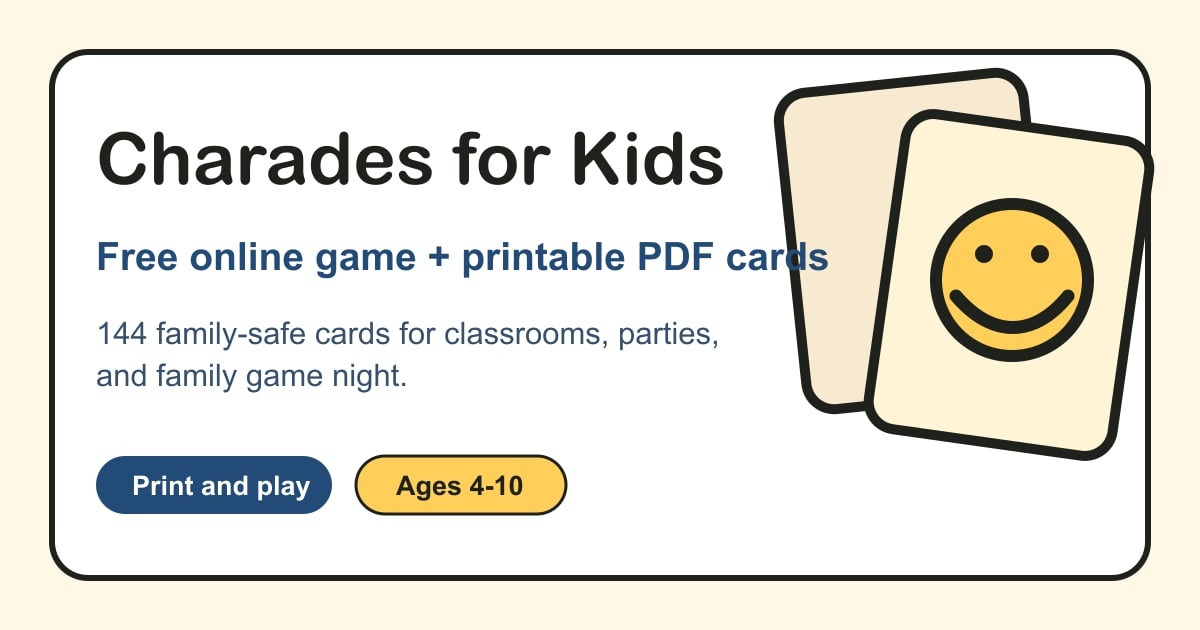
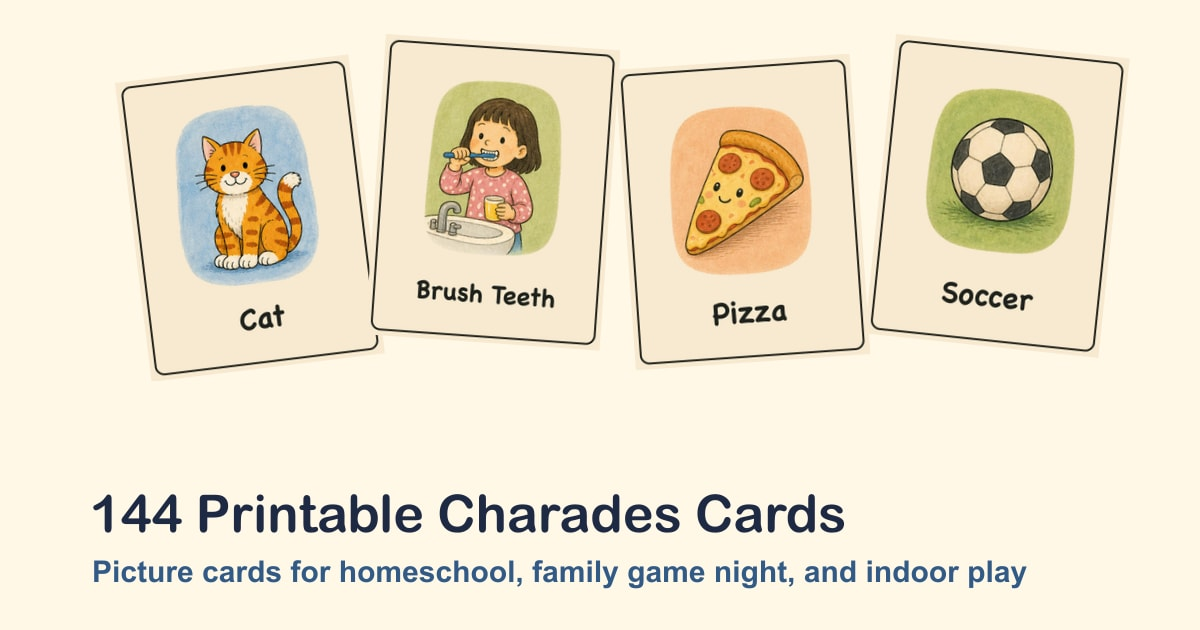
Improve generator SEO and sharing image

diff --git a/site/assets/game.js b/site/assets/game.js
@@ -3,6 +3,7 @@
   const els = {
     deckSelect: document.getElementById("deck-select"),
     ageSelect: document.getElementById("age-select"),
+    generateCard: document.getElementById("generate-card"),
     startRound: document.getElementById("start-round"),
     resetGame: document.getElementById("reset-game"),
     skipCard: document.getElementById("skip-card"),
@@ -27,7 +28,8 @@
     seconds: 60,
     remaining: 60,
     timerId: null,
-    running: false
+    running: false,
+    mode: "ready"
   };
 
   function getTimerSeconds() {
@@ -62,6 +64,10 @@
   function updateScore() {
     els.scoreCorrect.textContent = String(state.correct);
     els.scoreSkipped.textContent = String(state.skipped);
+    if (state.mode === "single") {
+      els.cardsLeft.textContent = String(getFilteredCards().length);
+      return;
+    }
     els.cardsLeft.textContent = String(state.deck.length + (state.current ? 1 : 0));
   }
 
@@ -125,6 +131,34 @@
     state.running = false;
   }
 
+  function generateCard() {
+    stopTimer();
+    state.mode = "single";
+    state.correct = 0;
+    state.skipped = 0;
+    state.deck = [];
+    state.seconds = getTimerSeconds();
+    state.remaining = state.seconds;
+    els.timerDisplay.textContent = String(state.seconds);
+
+    const cards = getFilteredCards();
+    if (!cards.length) {
+      state.current = null;
+      els.roundLabel.textContent = "No cards match this filter.";
+      renderCard(null);
+      setButtons(true);
+      return;
+    }
+
+    const randomIndex = Math.floor(Math.random() * cards.length);
+    state.current = cards[randomIndex];
+    els.roundLabel.textContent = `Random card from ${cards.length} available prompts`;
+    renderCard(state.current);
+    els.correctCard.disabled = true;
+    els.skipCard.disabled = true;
+    els.nextCard.disabled = false;
+  }
+
   function startTimer() {
     stopTimer();
     state.remaining = state.seconds;
@@ -147,6 +181,7 @@
     state.skipped = 0;
     state.deck = shuffle(getFilteredCards());
     state.current = null;
+    state.mode = "round";
     els.timerDisplay.textContent = String(state.seconds);
 
     if (!state.deck.length) {
@@ -170,6 +205,7 @@
     state.skipped = 0;
     state.seconds = getTimerSeconds();
     state.remaining = state.seconds;
+    state.mode = "ready";
     els.timerDisplay.textContent = String(state.seconds);
     els.roundLabel.textContent = "Choose a deck, then start.";
     setButtons(true);
@@ -189,12 +225,17 @@
   }
 
   function nextWithoutScore() {
+    if (state.mode === "single") {
+      generateCard();
+      return;
+    }
     if (!state.current || !state.running) return;
     drawNextCard();
   }
 
   function syncReadyCount() {
     if (state.running) return;
+    state.mode = "ready";
     const count = getFilteredCards().length;
     els.cardsLeft.textContent = String(count);
     els.roundLabel.textContent = `${count} cards available`;
@@ -202,6 +243,7 @@
     els.timerDisplay.textContent = String(state.seconds);
   }
 
+  els.generateCard.addEventListener("click", generateCard);
   els.startRound.addEventListener("click", startRound);
   els.resetGame.addEventListener("click", resetGame);
   els.correctCard.addEventListener("click", markCorrect);

diff --git a/site/index.html b/site/index.html
@@ -3,8 +3,8 @@
 <head>
   <meta charset="utf-8">
   <meta name="viewport" content="width=device-width, initial-scale=1">
-  <title>Charades for Kids Printable Cards - Free Online Game and PDFs</title>
-  <meta name="description" content="Play charades for kids online or download 144 family-safe printable cards for classrooms, parties, and family game night.">
+  <title>Charades for Kids Generator - Free Printable Cards and Online Game</title>
+  <meta name="description" content="Use a free kids charades generator online or download 144 family-safe printable picture cards for classrooms, parties, homeschool, and family game night.">
   <meta name="robots" content="index,follow">
   <link rel="icon" href="/favicon.svg" type="image/svg+xml">
   <link rel="icon" href="/favicon-32x32.png" sizes="32x32" type="image/png">
@@ -12,18 +12,18 @@
   <link rel="canonical" href="https://charades-for-kids.com/">
   <meta property="og:type" content="website">
   <meta property="og:site_name" content="Charades for Kids">
-  <meta property="og:title" content="Charades for Kids Printable Cards - Free Online Game and PDFs">
-  <meta property="og:description" content="Play charades for kids online or download 144 family-safe printable cards for classrooms, parties, and family game night.">
+  <meta property="og:title" content="Charades for Kids Generator - Free Printable Cards and Online Game">
+  <meta property="og:description" content="Use a free kids charades generator online or download 144 family-safe printable picture cards for classrooms, parties, homeschool, and family game night.">
   <meta property="og:url" content="https://charades-for-kids.com/">
   <meta property="og:image" content="https://charades-for-kids.com/og-image.jpg">
   <meta property="og:image:width" content="1200">
   <meta property="og:image:height" content="630">
   <meta name="twitter:card" content="summary_large_image">
-  <meta name="twitter:title" content="Charades for Kids Printable Cards - Free Online Game and PDFs">
-  <meta name="twitter:description" content="Play charades for kids online or download 144 family-safe printable cards for classrooms, parties, and family game night.">
+  <meta name="twitter:title" content="Charades for Kids Generator - Free Printable Cards and Online Game">
+  <meta name="twitter:description" content="Use a free kids charades generator online or download 144 family-safe printable picture cards for classrooms, parties, homeschool, and family game night.">
   <meta name="twitter:image" content="https://charades-for-kids.com/og-image.jpg">
   <meta name="theme-color" content="#fff8e7">
-  <script type="application/ld+json">[{"@context":"https://schema.org","@type":"WebSite","name":"Charades for Kids","url":"https://charades-for-kids.com","description":"Play charades for kids online or download 144 family-safe printable cards for classrooms, parties, and family game night.","inLanguage":"en-US"},{"@context":"https://schema.org","@type":"WebApplication","name":"Charades for Kids Online Game","url":"https://charades-for-kids.com/#play","applicationCategory":"GameApplication","operatingSystem":"Any","isFamilyFriendly":true,"audience":{"@type":"PeopleAudience","suggestedMinAge":4,"suggestedMaxAge":10},"offers":{"@type":"Offer","price":"0","priceCurrency":"USD"}},{"@context":"https://schema.org","@type":"Product","name":"Kids Charades Printable Card Pack","image":"https://charades-for-kids.com/og-image.jpg","description":"A family-safe printable charades pack with 144 cards across Animals, Actions, Food, Jobs, Sports, Everyday Objects.","brand":{"@type":"Brand","name":"Charades for Kids"},"offers":{"@type":"Offer","price":"0","priceCurrency":"USD","availability":"https://schema.org/InStock","url":"https://charades-for-kids.com/#downloads"}},{"@context":"https://schema.org","@type":"FAQPage","mainEntity":[{"@type":"Question","name":"What ages are these charades cards for?","acceptedAnswer":{"@type":"Answer","text":"The cards are designed for kids ages 4 to 10, with simple prompts for younger players and medium prompts for older kids."}},{"@type":"Question","name":"Can I print the cards at home?","acceptedAnswer":{"@type":"Answer","text":"Yes. The downloadable PDFs are laid out for US Letter paper and should be printed at 100% scale."}},{"@type":"Question","name":"Are the prompts family-safe?","acceptedAnswer":{"@type":"Answer","text":"Yes. The deck avoids adult, violent, scary, political, and brand-specific prompts."}}]},{"@context":"https://schema.org","@type":"HowTo","name":"How to play charades with printable cards","description":"Print, cut, and play a family-safe kids charades game at home, in class, or at a party.","totalTime":"PT10M","supply":[{"@type":"HowToSupply","name":"Printable charades cards"},{"@type":"HowToSupply","name":"US Letter paper"}],"tool":[{"@type":"HowToTool","name":"Printer"},{"@type":"HowToTool","name":"Scissors"}],"step":[{"@type":"HowToStep","name":"Print the cards","text":"Download a PDF deck and print it on US Letter paper at 100% scale."},{"@type":"HowToStep","name":"Cut the cards","text":"Cut along the card edges, then place the cards face down in a pile."},{"@type":"HowToStep","name":"Act and guess","text":"One player draws a card and acts it out silently while everyone else guesses before the timer ends."}]}]</script>
+  <script type="application/ld+json">[{"@context":"https://schema.org","@type":"WebSite","name":"Charades for Kids","url":"https://charades-for-kids.com","description":"Use a free kids charades generator online or download 144 family-safe printable picture cards for classrooms, parties, homeschool, and family game night.","inLanguage":"en-US"},{"@context":"https://schema.org","@type":"WebApplication","name":"Charades for Kids Generator","alternateName":["Kids Charades Generator","Online Charades Generator for Kids","Charades Word Generator for Kids"],"url":"https://charades-for-kids.com/#play","applicationCategory":"GameApplication","operatingSystem":"Any","description":"A free online charades generator that randomly shows kid-friendly picture prompts from printable cards.","keywords":"charades generator, kids charades generator, charades word generator, printable charades cards, charades for kids","isFamilyFriendly":true,"audience":{"@type":"PeopleAudience","suggestedMinAge":4,"suggestedMaxAge":10},"offers":{"@type":"Offer","price":"0","priceCurrency":"USD"}},{"@context":"https://schema.org","@type":"Product","name":"Kids Charades Printable Card Pack","image":"https://charades-for-kids.com/og-image.jpg","description":"A family-safe printable charades pack with 144 cards across Animals, Actions, Food, Jobs, Sports, Everyday Objects.","brand":{"@type":"Brand","name":"Charades for Kids"},"offers":{"@type":"Offer","price":"0","priceCurrency":"USD","availability":"https://schema.org/InStock","url":"https://charades-for-kids.com/#downloads"}},{"@context":"https://schema.org","@type":"FAQPage","mainEntity":[{"@type":"Question","name":"Can I use this as a charades generator?","acceptedAnswer":{"@type":"Answer","text":"Yes. The online game works as a free kids charades generator by randomly showing family-safe prompts from the printable card set."}},{"@type":"Question","name":"What ages are these charades cards for?","acceptedAnswer":{"@type":"Answer","text":"The cards are designed for kids ages 4 to 10, with simple prompts for younger players and medium prompts for older kids."}},{"@type":"Question","name":"Can I print the cards at home?","acceptedAnswer":{"@type":"Answer","text":"Yes. The downloadable PDFs are laid out for US Letter paper and should be printed at 100% scale."}},{"@type":"Question","name":"Are the prompts family-safe?","acceptedAnswer":{"@type":"Answer","text":"Yes. The deck avoids adult, violent, scary, political, and brand-specific prompts."}}]},{"@context":"https://schema.org","@type":"HowTo","name":"How to play charades with printable cards","description":"Print, cut, and play a family-safe kids charades game at home, in class, or at a party.","totalTime":"PT10M","supply":[{"@type":"HowToSupply","name":"Printable charades cards"},{"@type":"HowToSupply","name":"US Letter paper"}],"tool":[{"@type":"HowToTool","name":"Printer"},{"@type":"HowToTool","name":"Scissors"}],"step":[{"@type":"HowToStep","name":"Print the cards","text":"Download a PDF deck and print it on US Letter paper at 100% scale."},{"@type":"HowToStep","name":"Cut the cards","text":"Cut along the card edges, then place the cards face down in a pile."},{"@type":"HowToStep","name":"Act and guess","text":"One player draws a card and acts it out silently while everyone else guesses before the timer ends."}]}]</script>
   <script async src="https://www.googletagmanager.com/gtag/js?id=G-1XHHX5ZVND"></script>
   <script>
     window.dataLayer = window.dataLayer || [];
@@ -402,7 +402,7 @@
     <section class="hero">
       <div>
         <h1>Charades for Kids</h1>
-        <p class="lead">Play family-safe charades online, or download printable cards with cartoon icons for classrooms, birthday parties, and family game night.</p>
+        <p class="lead">Use a free kids charades generator online, or download printable picture cards for classrooms, birthday parties, homeschool breaks, and family game night.</p>
         <div class="actions">
           <a class="button" href="#play" data-event="start_play_intent">Play Online</a>
           <a class="button secondary" href="#downloads" data-event="download_section_intent">Download Printable Cards</a>
@@ -416,7 +416,8 @@
     </section>
 
     <section id="play" aria-labelledby="play-title">
-      <h2 id="play-title">Play Online</h2>
+      <h2 id="play-title">Kids Charades Generator</h2>
+      <p class="section-intro">Start a round to randomly generate kid-friendly charades prompts from the full picture-card set. You can filter by theme or age, use the timer for live play, or download the same prompts as printable PDF cards.</p>
       <div class="game-shell">
         <aside class="game-controls" aria-label="Game controls">
           <div class="field">
@@ -447,6 +448,7 @@
             <div class="score-box"><strong id="score-skipped">0</strong><span>Skipped</span></div>
             <div class="score-box"><strong id="cards-left">0</strong><span>Left</span></div>
           </div>
+          <button class="button secondary" id="generate-card" type="button">Generate Card</button>
           <button class="button" id="start-round" type="button">Start Round</button>
           <button class="button ghost" id="reset-game" type="button">Reset</button>
         </aside>
@@ -545,7 +547,13 @@
     <section>
       <h2>What Are Charades for Kids?</h2>
       <p>Charades for kids is a simple acting and guessing game. One player picks a prompt, acts it out without speaking, and the rest of the group tries to guess the word before time runs out. It works well for young players because the rules are easy, the game uses movement, and adults can quietly help early readers.</p>
-      <p>This page includes both an online charades game and printable charades cards, so you can play from a phone or print a cut-out deck for screen-free activities.</p>
+      <p>This page includes both an online charades generator and printable charades cards, so you can generate prompts from a phone or print a cut-out deck for screen-free activities.</p>
+    </section>
+
+    <section>
+      <h2>How the Charades Generator Works</h2>
+      <p>This charades for kids generator randomly draws from 144 picture-based prompts across Animals, Actions, Food, Jobs, Sports, and Everyday Objects. Unlike an open-ended word generator, every prompt is preselected to be kid-safe, easy to act out, and useful for ages 4-10.</p>
+      <p>Use the generator when you want a quick no-print game. Use the PDF cards when you want a screen-free activity for homeschool groups, classroom centers, parties, or family game night.</p>
     </section>
 
     <section>
@@ -581,13 +589,13 @@
       <h2>Common Questions</h2>
       <div class="steps faq">
         <div class="step"><strong>What ages is it for?</strong><br>Best for ages 4-10, with easy prompts and a few medium prompts for older kids.</div>
+        <div class="step"><strong>Is this a charades generator?</strong><br>Yes. The online game randomly generates kid-friendly charades prompts from the printable picture-card set.</div>
         <div class="step"><strong>Can I print it at home?</strong><br>Yes. Use US Letter paper and print at 100% scale for clean card cuts.</div>
-        <div class="step"><strong>Is it family-safe?</strong><br>Yes. The prompts avoid adult, violent, scary, political, and brand-specific topics.</div>
       </div>
     </section>
 
     <footer>
-      MVP note: this printable set uses curated child-safe prompts and original watercolor-style card art. Licensed under <a href="https://creativecommons.org/licenses/by-nc/4.0/">CC BY-NC 4.0</a> for non-commercial use with attribution.
+      MVP note: this Charades for Kids printable set uses curated child-safe prompts and original watercolor-style card art. Licensed under <a href="https://creativecommons.org/licenses/by-nc/4.0/">CC BY-NC 4.0</a> for non-commercial use with attribution.
     </footer>
   </main>
   <script src="assets/decks.js"></script>